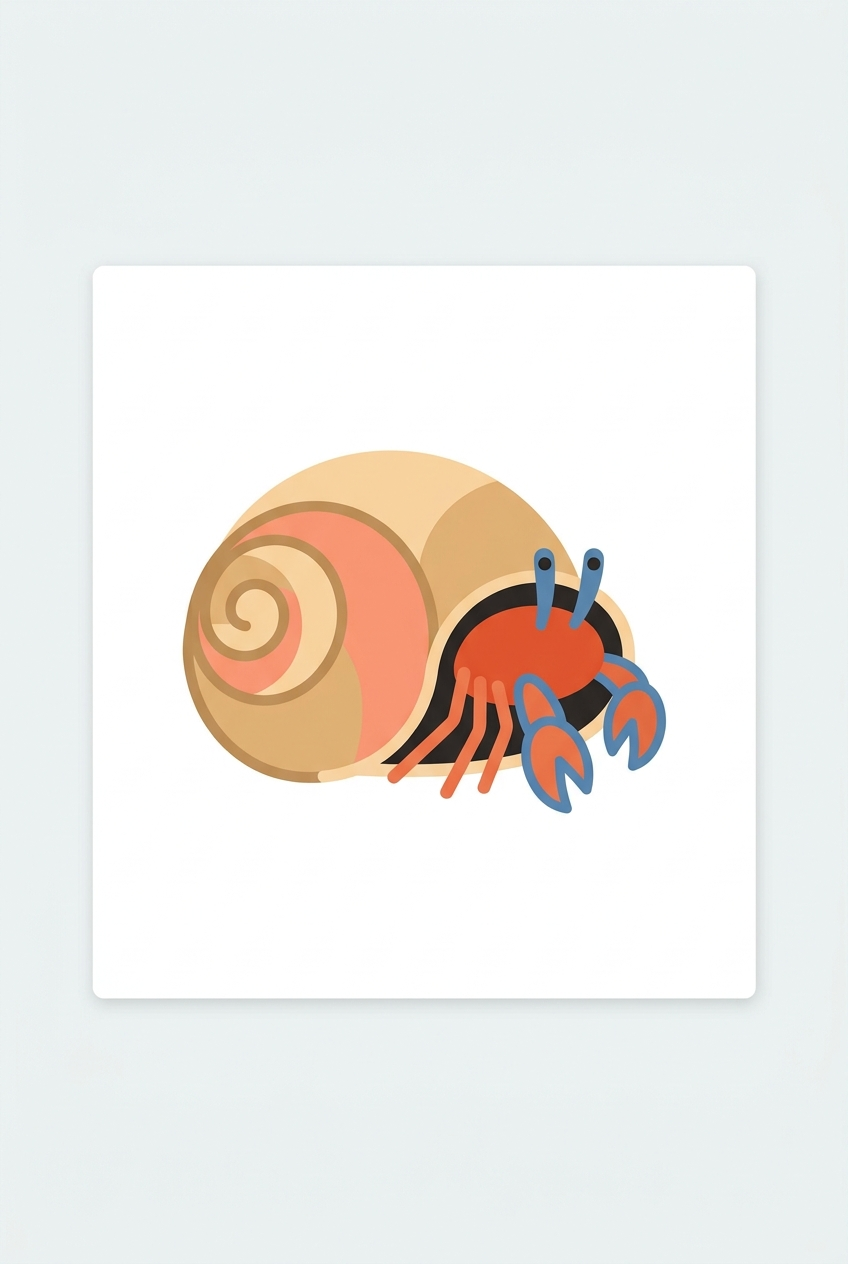
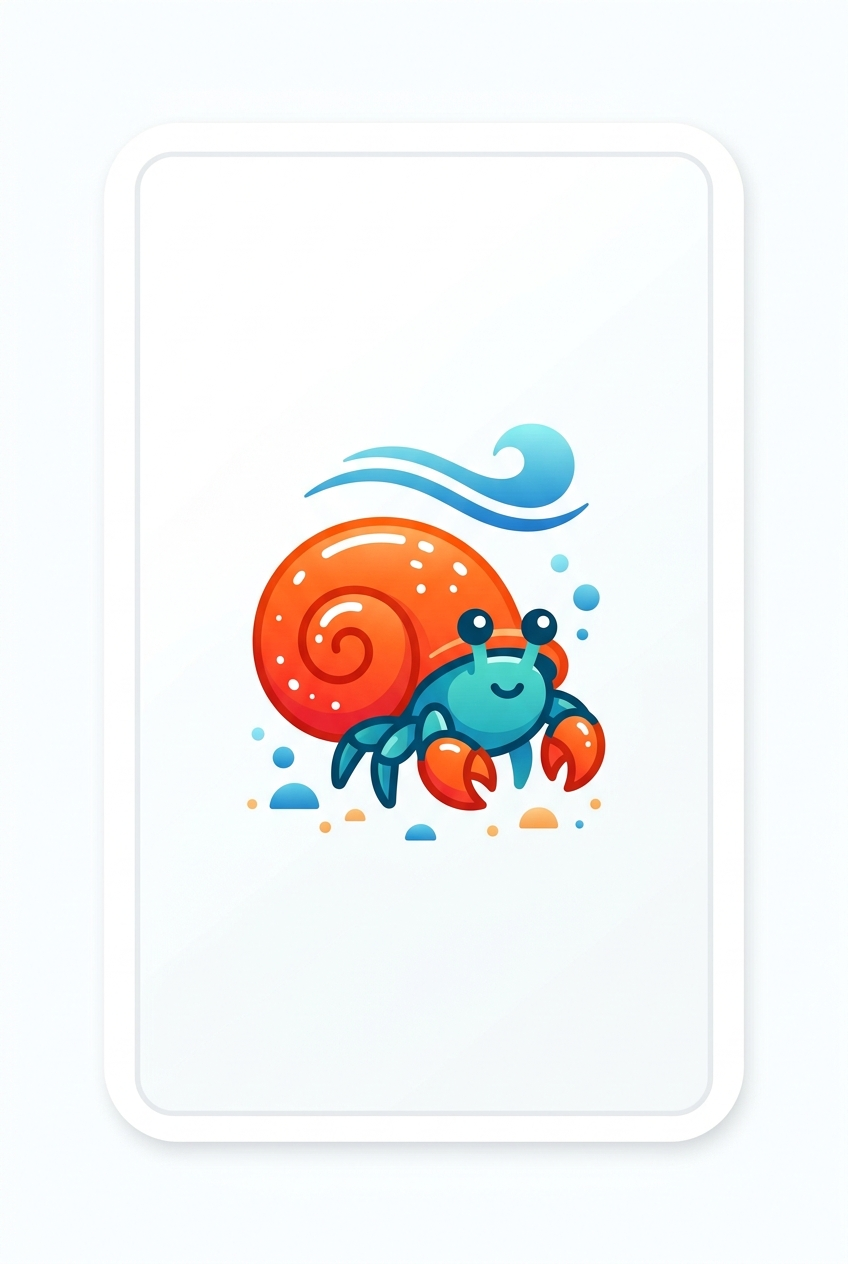
Update hermit crab image, show parrot prediction to opponent, v3.08

diff --git a/game.js b/game.js
@@ -3,7 +3,7 @@ const ANIMALS = [
     { id: 'chameleon', name: 'Caméléon', img: 'assets/card_chameleon.jpg?v=4', desc: 'Joker. S\'annule et se défausse si vous en posez un 2ème.' },
     { id: 'monkey', name: 'Singe', img: 'assets/card_monkey.jpg?v=4', desc: 'Échange votre Singe avec la carte d\'un adversaire.' },
     { id: 'crab', name: 'Crabe', img: 'assets/card_crab.jpg?v=4', desc: 'Déplace votre première carte à la fin de votre rangée.' },
-    { id: 'hermit_crab', name: 'Bernard l\'hermite', img: 'assets/card_hermit_crab.jpg?v=4', desc: 'Rejouez un tour si vous avez déjà un Crabe.' },
+    { id: 'hermit_crab', name: 'Bernard l\'hermite', img: 'assets/card_hermit_crab.jpg?v=6', desc: 'Rejouez un tour si vous avez déjà un Crabe.' },
     { id: 'octopus', name: 'Pieuvre', img: 'assets/card_octopus.jpg?v=4', desc: 'Gagnez si vous avez 2 paires d\'animaux (4 cartes).' },
     { id: 'lion', name: 'Lion', img: 'assets/card_lion.jpg?v=4', desc: 'Gagnez si vous avez 1 exemplaire de chaque autre animal.' },
     { id: 'parrot', name: 'Perroquet', img: 'assets/card_parrot.jpg?v=4', desc: 'Devinez votre pioche pour la conserver.' }
@@ -301,6 +301,13 @@ const ui = {
         } else if (state.crabTargeting) {
             const targetingPlayer = state.players.find(p => p.id === state.crabTargeting);
             ui.showOverlay("Pouvoir du Crabe...", `${targetingPlayer.name} hésite à déplacer une carte...`);
+        } else if (state.parrotPredictedAnimal && state.turn !== myId) {
+            const targetingPlayer = state.players.find(p => p.id === state.turn);
+            const animalNameMap = {
+                lion: 'le Lion 🦁', chameleon: 'le Caméléon 🦎', monkey: 'le Singe 🐒',
+                crab: 'le Crabe 🦀', octopus: 'la Pieuvre 🐙', crocodile: 'le Crocodile 🐊', parrot: 'le Perroquet 🦜', 'hermit_crab': 'le Bernard-l\'ermite 🐚'
+            };
+            ui.showOverlay("Prédiction en cours 🦜", `${targetingPlayer.name} a prédit ${animalNameMap[state.parrotPredictedAnimal]} ! Il s'apprête à piocher...`);
         } else {
             ui.selectedCrabCard = null; // Clear if crab is done
             ui.hideOverlay();

diff --git a/index.html b/index.html
@@ -34,7 +34,7 @@
                 <button class="btn btn-main" onclick="ui.showScreen('screen-host')">Créer un Salon</button>
                 <button class="btn btn-secondary" onclick="ui.showScreen('screen-join')">Rejoindre</button>
             </div>
-            <div class="version-badge">v3.07</div>
+            <div class="version-badge">v3.08</div>
         </div>
 
         <!-- ================= HOST / WAITING ROOM ================= -->
